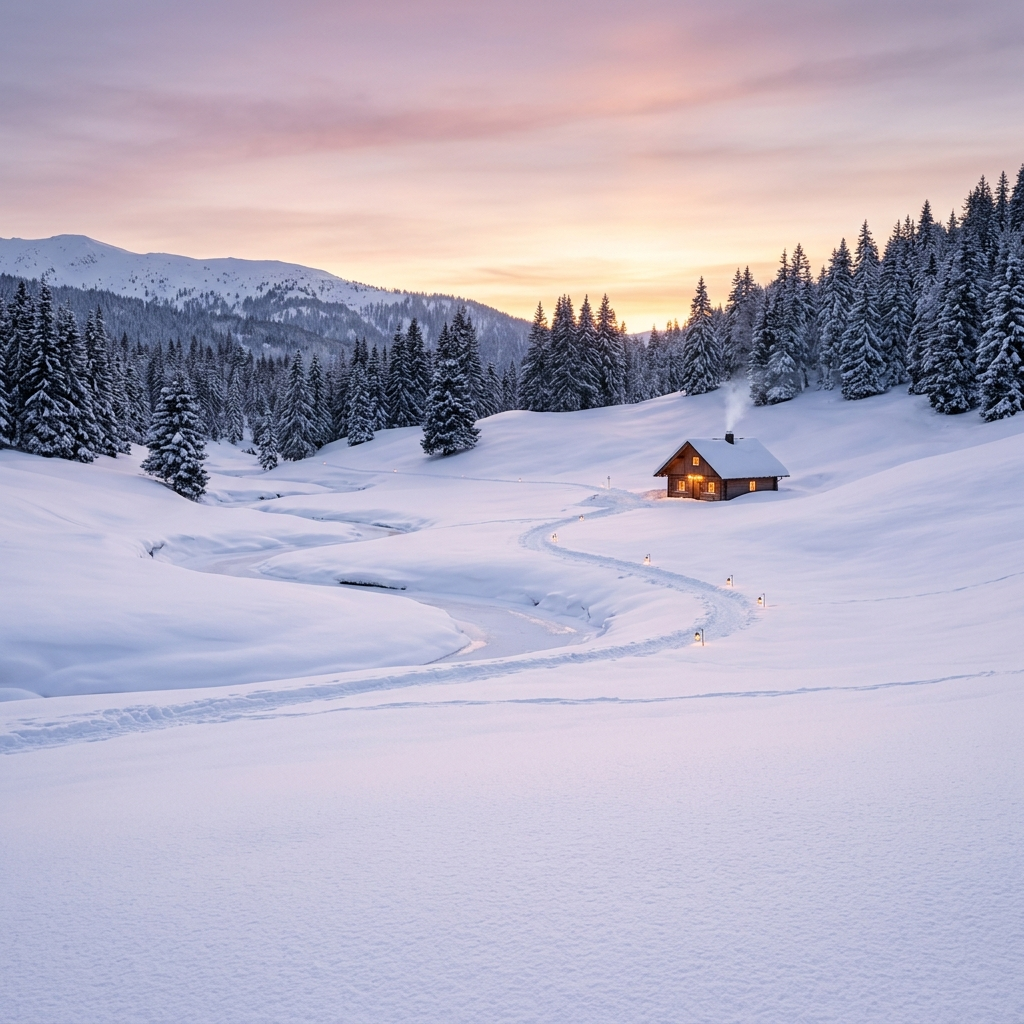
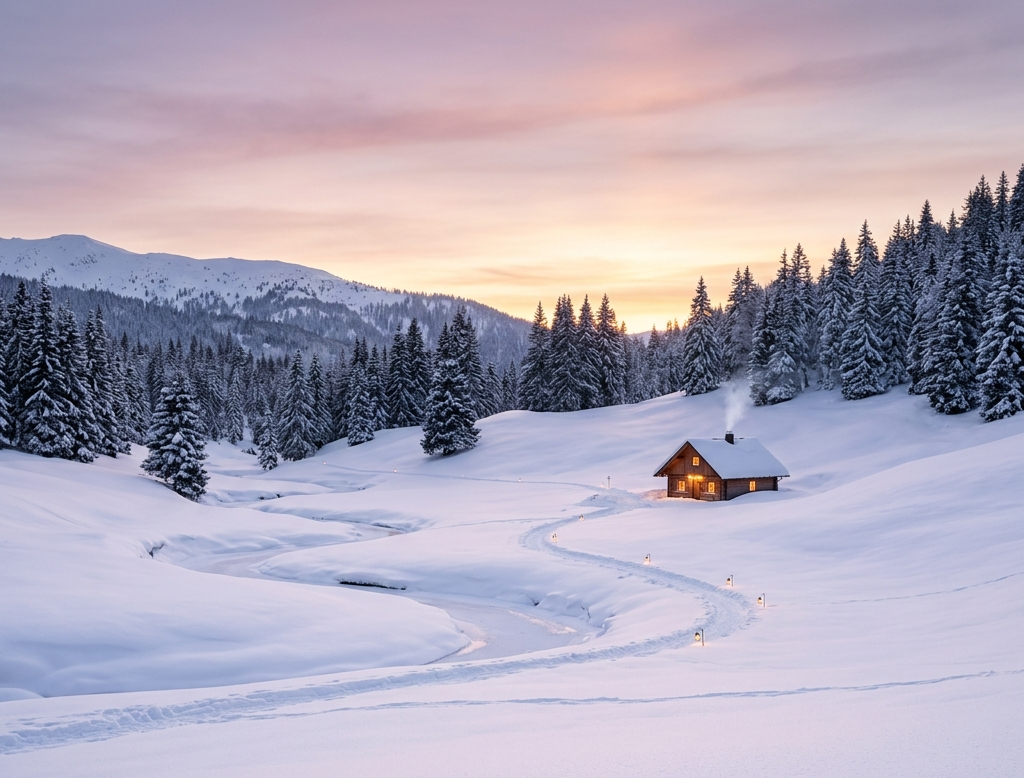
logic update

diff --git a/Productivity-dashboard/index.html b/Productivity-dashboard/index.html
@@ -40,32 +40,30 @@
         <div class="flex flex-col justify-center h-full">
           <div class="flex items-center gap-2 mb-2">
             <div id="weatherIconContainer" class="text-white scale-110 hidden"></div>
-            <span id="weatherConditionText"
-              class="text-lg text-white/90 font-medium tracking-wide drop-shadow-sm">Sunny</span>
+            <span id="weatherConditionText" class="text-lg text-white/90 font-medium tracking-wide drop-shadow-sm">
+              Loading...
+            </span>
           </div>
 
           <div class="flex items-center gap-6">
             <div class="flex items-start">
               <h3 id="miniWeatherTemp"
-                class="text-[72px] font-light text-white leading-none tracking-tighter drop-shadow-md">
-                25
-              </h3>
+                class="text-[72px] font-light text-white leading-none tracking-tighter drop-shadow-md">--</h3>
+
               <span class="text-3xl font-light text-white drop-shadow-md mt-2">°</span>
             </div>
 
             <div class="w-[1px] h-16 bg-white/30"></div>
 
             <div class="flex flex-col gap-1 justify-center">
-              <p id="widgetDate" class="text-[17px] text-white font-medium drop-shadow-md">
-                Mon, 1 Jan
-              </p>
+              <p id="widgetDate" class="text-[17px] text-white font-medium drop-shadow-md">Loading...</p>
               <div class="flex items-center gap-1.5 text-white/90 drop-shadow-md">
                 <svg xmlns="http://www.w3.org/2000/svg" width="16" height="16" viewBox="0 0 24 24" fill="currentColor"
                   class="text-white">
                   <path
                     d="M12 2C8.13 2 5 5.13 5 9c0 5.25 7 13 7 13s7-7.75 7-13c0-3.87-3.13-7-7-7zm0 9.5c-1.38 0-2.5-1.12-2.5-2.5s1.12-2.5 2.5-2.5 2.5 1.12 2.5 2.5-1.12 2.5-2.5 2.5z" />
                 </svg>
-                <span id="miniWeatherCity" class="text-[15px] font-medium">Guwahati</span>
+                <span id="miniWeatherCity" class="text-[15px] font-medium">Loading...</span>
               </div>
             </div>
           </div>
@@ -139,7 +137,8 @@
       <div
         class="feature-card elem relative overflow-hidden rounded-3xl glass-card cursor-pointer group aspect-[4/3] md:aspect-auto"
         data-target="todo">
-        <img src="https://images.unsplash.com/photo-1759661937582-0ccd5dacf20f?q=80&w=1632&auto=format&fit=crop&ixlib=rb-4.1.0&ixid=M3wxMjA3fDB8MHxwaG90by1wYWdlfHx8fGVufDB8fHx8fA%3D%3D"
+        <img
+          src="https://images.unsplash.com/photo-1759661937582-0ccd5dacf20f?q=80&w=1632&auto=format&fit=crop&ixlib=rb-4.1.0&ixid=M3wxMjA3fDB8MHxwaG90by1wYWdlfHx8fGVufDB8fHx8fA%3D%3D"
           class="absolute inset-0 w-full h-full object-cover transition-transform duration-700 group-hover:scale-110 opacity-90"
           alt="Todo" />
         <div
@@ -166,7 +165,8 @@
       <div
         class="feature-card elem relative overflow-hidden rounded-3xl glass-card cursor-pointer group aspect-[4/3] md:aspect-auto"
         data-target="planner">
-        <img src="https://images.unsplash.com/photo-1435527173128-983b87201f4d?q=80&w=1167&auto=format&fit=crop&ixlib=rb-4.1.0&ixid=M3wxMjA3fDB8MHxwaG90by1wYWdlfHx8fGVufDB8fHx8fA%3D%3D"
+        <img
+          src="https://images.unsplash.com/photo-1435527173128-983b87201f4d?q=80&w=1167&auto=format&fit=crop&ixlib=rb-4.1.0&ixid=M3wxMjA3fDB8MHxwaG90by1wYWdlfHx8fGVufDB8fHx8fA%3D%3D"
           class="absolute inset-0 w-full h-full object-cover transition-transform duration-700 group-hover:scale-110 opacity-90"
           alt="Planner" />
         <div
@@ -193,7 +193,8 @@
       <div
         class="feature-card elem relative overflow-hidden rounded-3xl glass-card cursor-pointer group aspect-[4/3] md:aspect-auto"
         data-target="motivation">
-        <img src="https://images.unsplash.com/photo-1558537112-ed307f81124c?q=80&w=1170&auto=format&fit=crop&ixlib=rb-4.1.0&ixid=M3wxMjA3fDB8MHxwaG90by1wYWdlfHx8fGVufDB8fHx8fA%3D%3D"
+        <img
+          src="https://images.unsplash.com/photo-1558537112-ed307f81124c?q=80&w=1170&auto=format&fit=crop&ixlib=rb-4.1.0&ixid=M3wxMjA3fDB8MHxwaG90by1wYWdlfHx8fGVufDB8fHx8fA%3D%3D"
           class="absolute inset-0 w-full h-full object-cover transition-transform duration-700 group-hover:scale-110 opacity-90"
           alt="Motivation" />
         <div
@@ -220,8 +221,9 @@
       <div
         class="feature-card elem relative overflow-hidden rounded-3xl glass-card cursor-pointer group aspect-[4/3] md:aspect-auto lg:col-span-2"
         data-target="pomodoro">
-        <img src="https://images.unsplash.com/photo-1634906344066-2c9dfd5e8ef7?q=80&w=1170&auto=format&fit=crop&ixlib=rb-4.1.0&ixid=M3wxMjA3fDB8MHxwaG90by1wYWdlfHx8fGVufDB8fHx8fA%3D%3D"
-           class="absolute inset-0 w-full h-full object-cover transition-transform duration-700 scale-[1.2] group-hover:scale-[1.3] opacity-90"
+        <img
+          src="https://images.unsplash.com/photo-1634906344066-2c9dfd5e8ef7?q=80&w=1170&auto=format&fit=crop&ixlib=rb-4.1.0&ixid=M3wxMjA3fDB8MHxwaG90by1wYWdlfHx8fGVufDB8fHx8fA%3D%3D"
+          class="absolute inset-0 w-full h-full object-cover transition-transform duration-700 scale-[1.2] group-hover:scale-[1.3] opacity-90"
           alt="Pomodoro" />
         <div
           class="absolute inset-0 bg-gradient-to-t from-white/90 via-white/40 dark:from-gray-900/90 dark:via-gray-900/40 to-transparent">
@@ -247,7 +249,8 @@
       <div
         class="feature-card elem relative overflow-hidden rounded-3xl glass-card cursor-pointer group aspect-[4/3] md:aspect-auto"
         data-target="goals">
-        <img src="https://images.unsplash.com/photo-1585776245865-b92df54c6b25?q=80&w=1170&auto=format&fit=crop&ixlib=rb-4.1.0&ixid=M3wxMjA3fDB8MHxwaG90by1wYWdlfHx8fGVufDB8fHx8fA%3D%3D"
+        <img
+          src="https://images.unsplash.com/photo-1585776245865-b92df54c6b25?q=80&w=1170&auto=format&fit=crop&ixlib=rb-4.1.0&ixid=M3wxMjA3fDB8MHxwaG90by1wYWdlfHx8fGVufDB8fHx8fA%3D%3D"
           class="absolute inset-0 w-full h-full object-cover transition-transform duration-700 group-hover:scale-110 opacity-90"
           alt="Goals" />
         <div

diff --git a/Productivity-dashboard/script.js b/Productivity-dashboard/script.js
@@ -37,6 +37,9 @@ const weatherHumidity = document.querySelector("#weatherHumidity");
 const weatherWind = document.querySelector("#weatherWind");
 const weatherIconContainer = document.querySelector("#weatherIconContainer");
 const miniWeatherCity = document.querySelector("#miniWeatherCity");
+const featureCards = document.querySelectorAll(".feature-card");
+const backButtons = document.querySelectorAll(".fullElem .back");
+const themeToggle = document.querySelector("#themeToggle");
 
 let totalFocusSeconds =
   Number(localStorage.getItem("dashboard-focus-seconds")) || 0;
@@ -234,9 +237,8 @@ function renderTodos() {
 
   filtered.forEach(function (todo) {
     const div = document.createElement("div");
-    div.className = `todo-item group flex items-start gap-4 p-4 rounded-xl transition-all duration-300 border border-white/5 ${
-      todo.completed ? "bg-white/5 opacity-60" : "bg-black/20 hover:bg-black/30"
-    }`;
+    div.className = `todo-item group flex items-start gap-4 p-4 rounded-xl transition-all duration-300 border border-white/5 ${todo.completed ? "bg-white/5 opacity-60" : "bg-black/20 hover:bg-black/30"
+      }`;
     div.setAttribute("data-id", todo.id);
 
     div.innerHTML = `
@@ -689,7 +691,7 @@ function fetchWeather() {
     if (!weatherLoaded) {
       getWeatherByCoords(26.1445, 91.7362);
     }
-  }, 5000);
+  }, 10000);
 
   navigator.geolocation.getCurrentPosition(
     function (position) {
@@ -700,7 +702,7 @@ function fetchWeather() {
       clearTimeout(geoTimeout);
       if (!weatherLoaded) getWeatherByCoords(26.1445, 91.7362);
     },
-    { timeout: 5000, maximumAge: 10000 },
+    { timeout: 10000, maximumAge: 20000 },
   );
 }
 
@@ -739,6 +741,23 @@ function getWeatherByCoords(lat, lon) {
 
       const miniTemp = miniWeatherTemp;
       if (miniTemp) miniTemp.innerHTML = temp;
+
+
+      const cityEl = miniWeatherCity;
+      if (cityEl) {
+        if (lat === 26.1445 && lon === 91.7362) {
+          cityEl.textContent = "Guwahati";
+        } else {
+          fetch(`https://api.bigdatacloud.net/data/reverse-geocode-client?latitude=${lat}&longitude=${lon}&localityLanguage=en`)
+            .then(res => res.json())
+            .then(geo => {
+              cityEl.textContent = geo.city || geo.locality || "Unknown";
+            })
+            .catch(() => {
+              cityEl.textContent = "Unknown";
+            });
+        }
+      }
 
       const condText = weatherConditionText;
       if (condText) {
